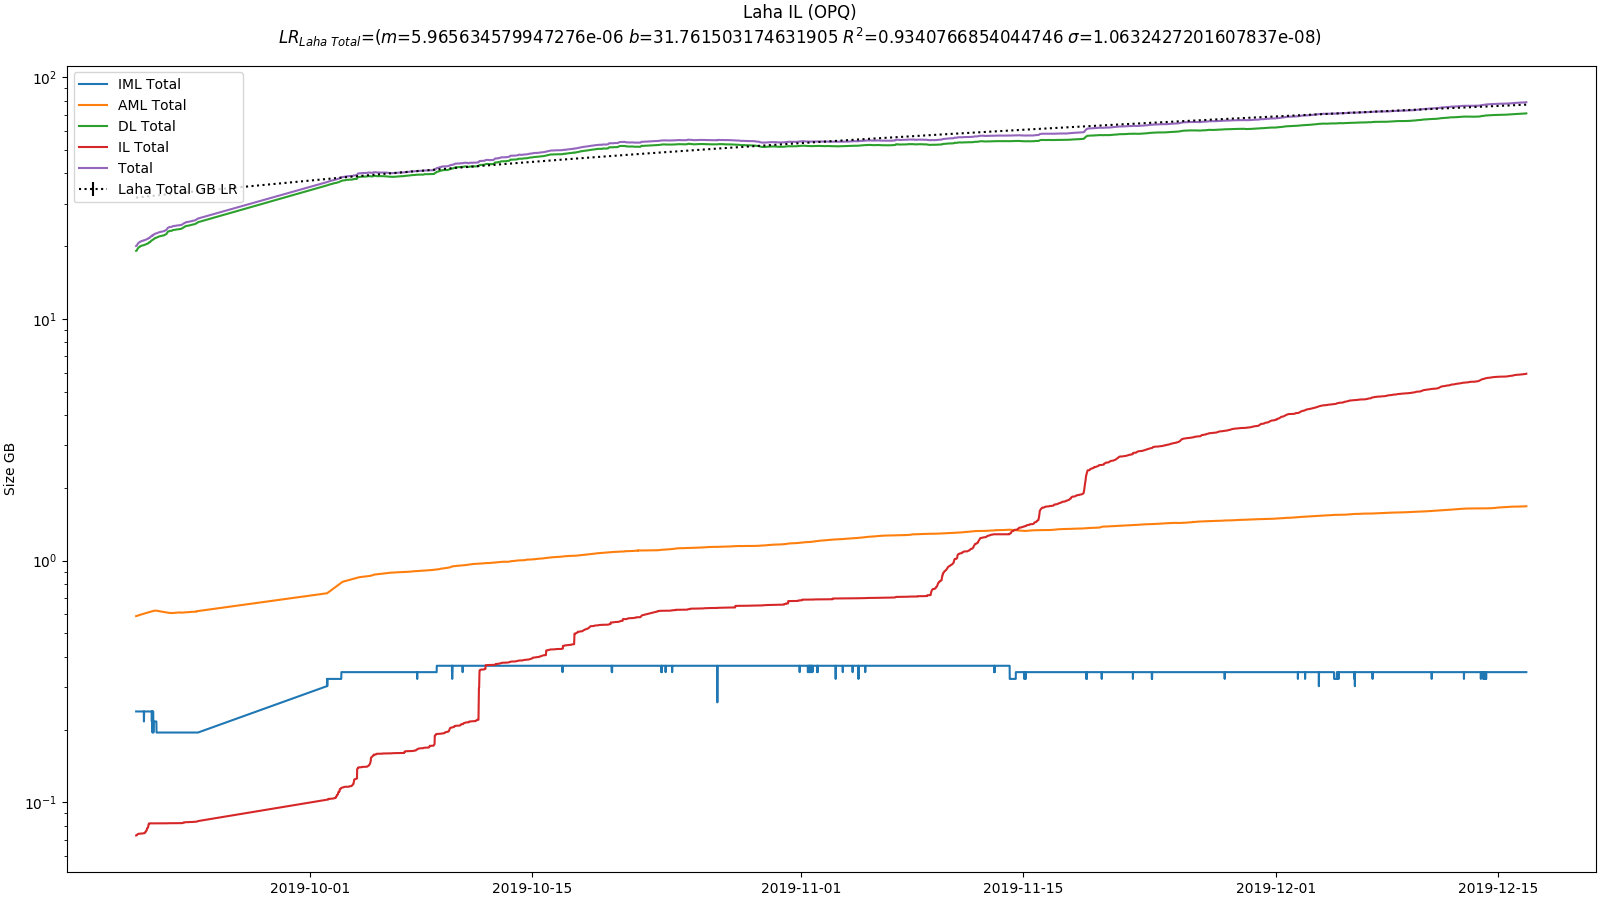
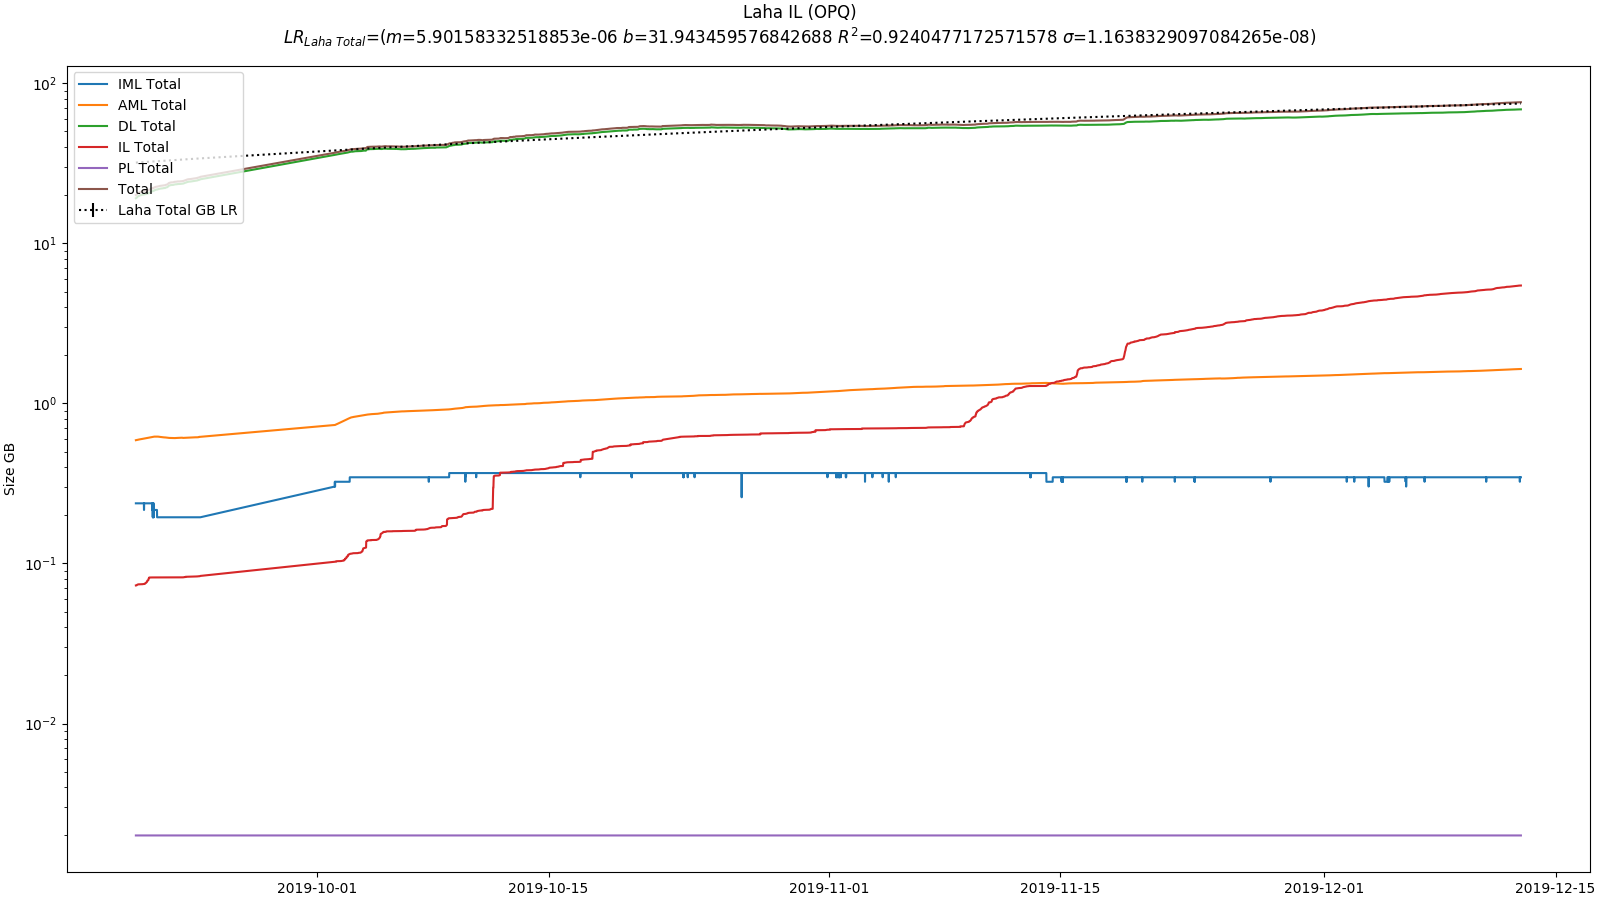
Add PL to actual Laha for OPQ.

diff --git a/plotting/opq/actual_data.py b/plotting/opq/actual_data.py
@@ -686,6 +686,7 @@ def plot_laha(laha_stat_dts: np.ndarray,
               aml_gb: np.ndarray,
               dl_gb: np.ndarray,
               il_gb: np.ndarray,
+              pl_gb: np.ndarray,
               total_gb: np.ndarray,
               out_dir: str):
     # Plot
@@ -707,6 +708,7 @@ def plot_laha(laha_stat_dts: np.ndarray,
     size_ax.plot(laha_stat_dts, aml_gb, label="AML Total")
     size_ax.plot(laha_stat_dts, dl_gb, label="DL Total")
     size_ax.plot(laha_stat_dts, il_gb, label="IL Total")
+    size_ax.plot(laha_stat_dts, pl_gb, label="PL Total")
     size_ax.plot(laha_stat_dts, total_gb, label="Total")
     size_ax.errorbar(laha_stat_dts, intercept + slope * xs, yerr=std_err, label="Laha Total GB LR", color="black",
                      linestyle=":")
@@ -1528,7 +1530,7 @@ def main():
     #
     # print("Done.")
 
-    out_dir: str = "/Users/anthony/Development/dissertation/src/figures"
+    out_dir: str = "/home/opq/Documents/anthony/dissertation/src/figures"
 
     print("Making plots...")
 
@@ -1538,38 +1540,39 @@ def main():
     #          laha_iml_total_mb,
     #          out_dir)
 
-    plot_aml(laha_stat_dts,
-             laha_measurements_gb,
-             laha_trends_gb,
-             laha_aml_total_gb,
-             laha_measurements_cnt,
-             laha_trends_cnt,
-             laha_aml_total_cnt,
-             laha_measurements_gc,
-             laha_trends_gc,
-             laha_aml_total_gc,
-             laha_active_devices,
-             out_dir)
-
-    plot_dl(laha_stat_dts,
-            laha_events_gb,
-            laha_events_cnt,
-            laha_events_gc,
-            laha_active_devices,
-            out_dir)
-
-    plot_il(laha_stat_dts,
-            laha_incidents_gb,
-            laha_incidents_cnt,
-            laha_incidents_gc,
-            laha_active_devices,
-            out_dir)
+    # plot_aml(laha_stat_dts,
+    #          laha_measurements_gb,
+    #          laha_trends_gb,
+    #          laha_aml_total_gb,
+    #          laha_measurements_cnt,
+    #          laha_trends_cnt,
+    #          laha_aml_total_cnt,
+    #          laha_measurements_gc,
+    #          laha_trends_gc,
+    #          laha_aml_total_gc,
+    #          laha_active_devices,
+    #          out_dir)
+    #
+    # plot_dl(laha_stat_dts,
+    #         laha_events_gb,
+    #         laha_events_cnt,
+    #         laha_events_gc,
+    #         laha_active_devices,
+    #         out_dir)
+    #
+    # plot_il(laha_stat_dts,
+    #         laha_incidents_gb,
+    #         laha_incidents_cnt,
+    #         laha_incidents_gc,
+    #         laha_active_devices,
+    #         out_dir)
 
     plot_laha(laha_stat_dts,
               laha_iml_total_gb,
               laha_aml_total_gb,
               laha_events_gb,
               laha_incidents_gb,
+              np.array([0.002 for _ in laha_stat_dts]),
               laha_total_gb,
               out_dir)
 
